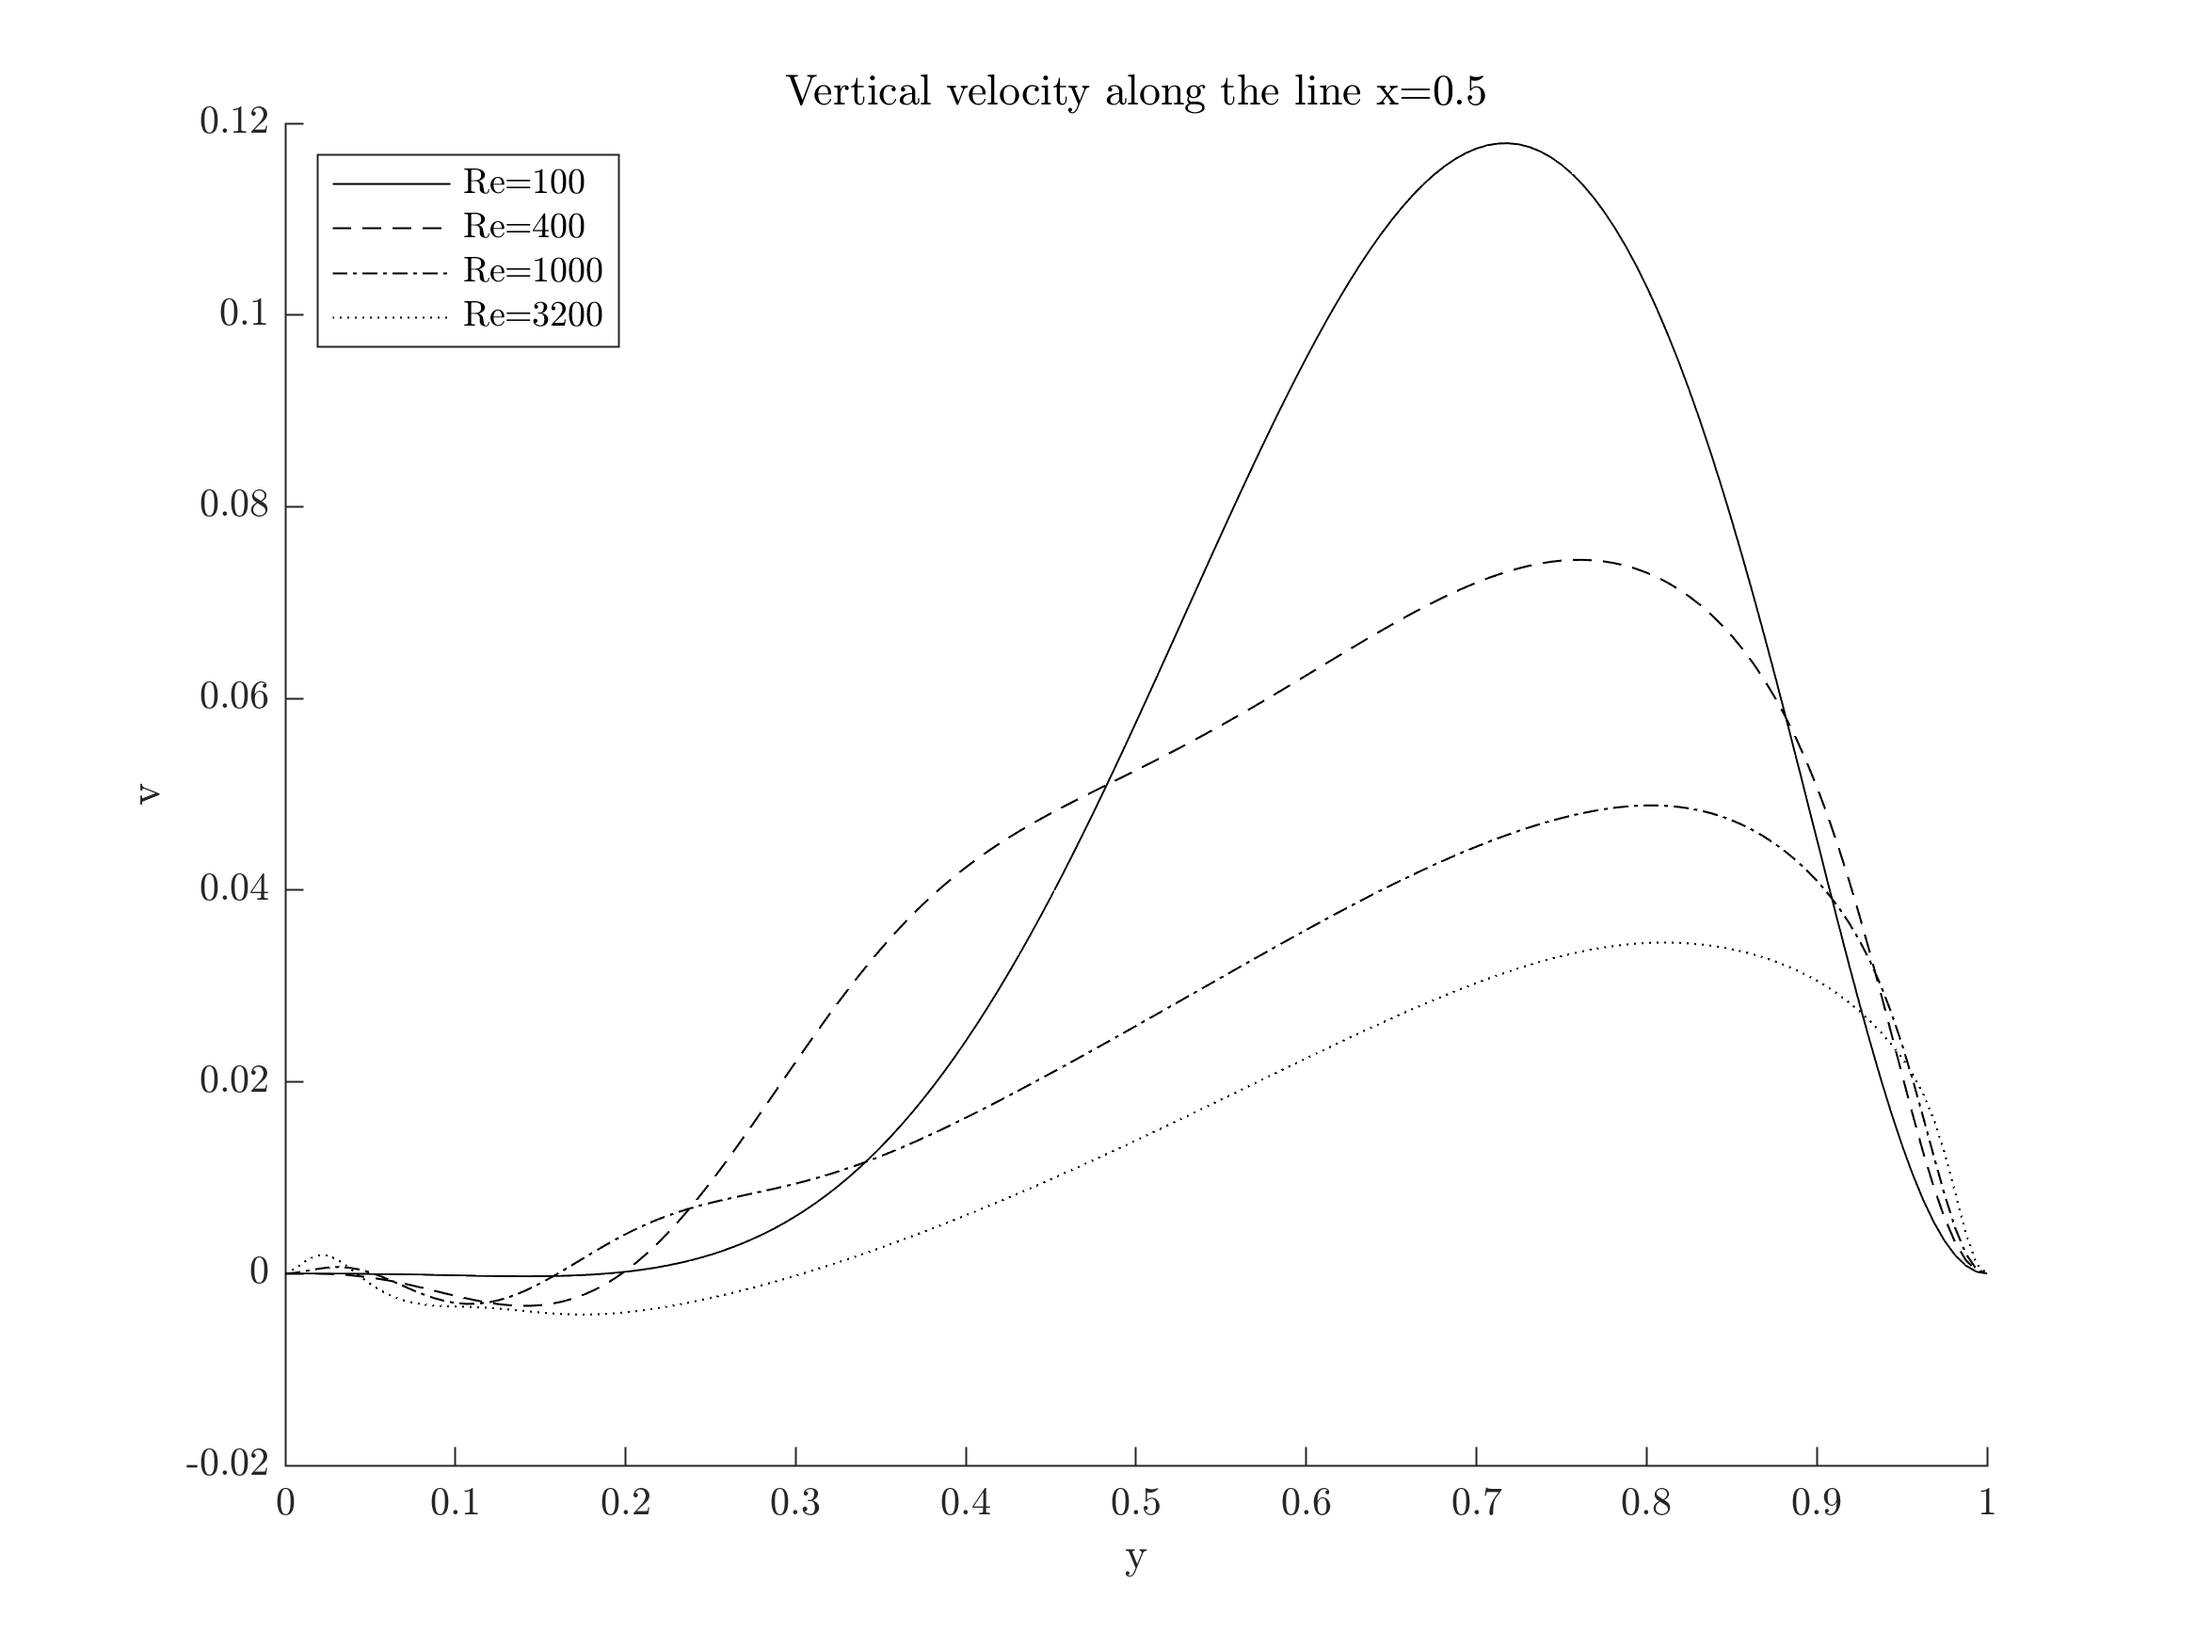
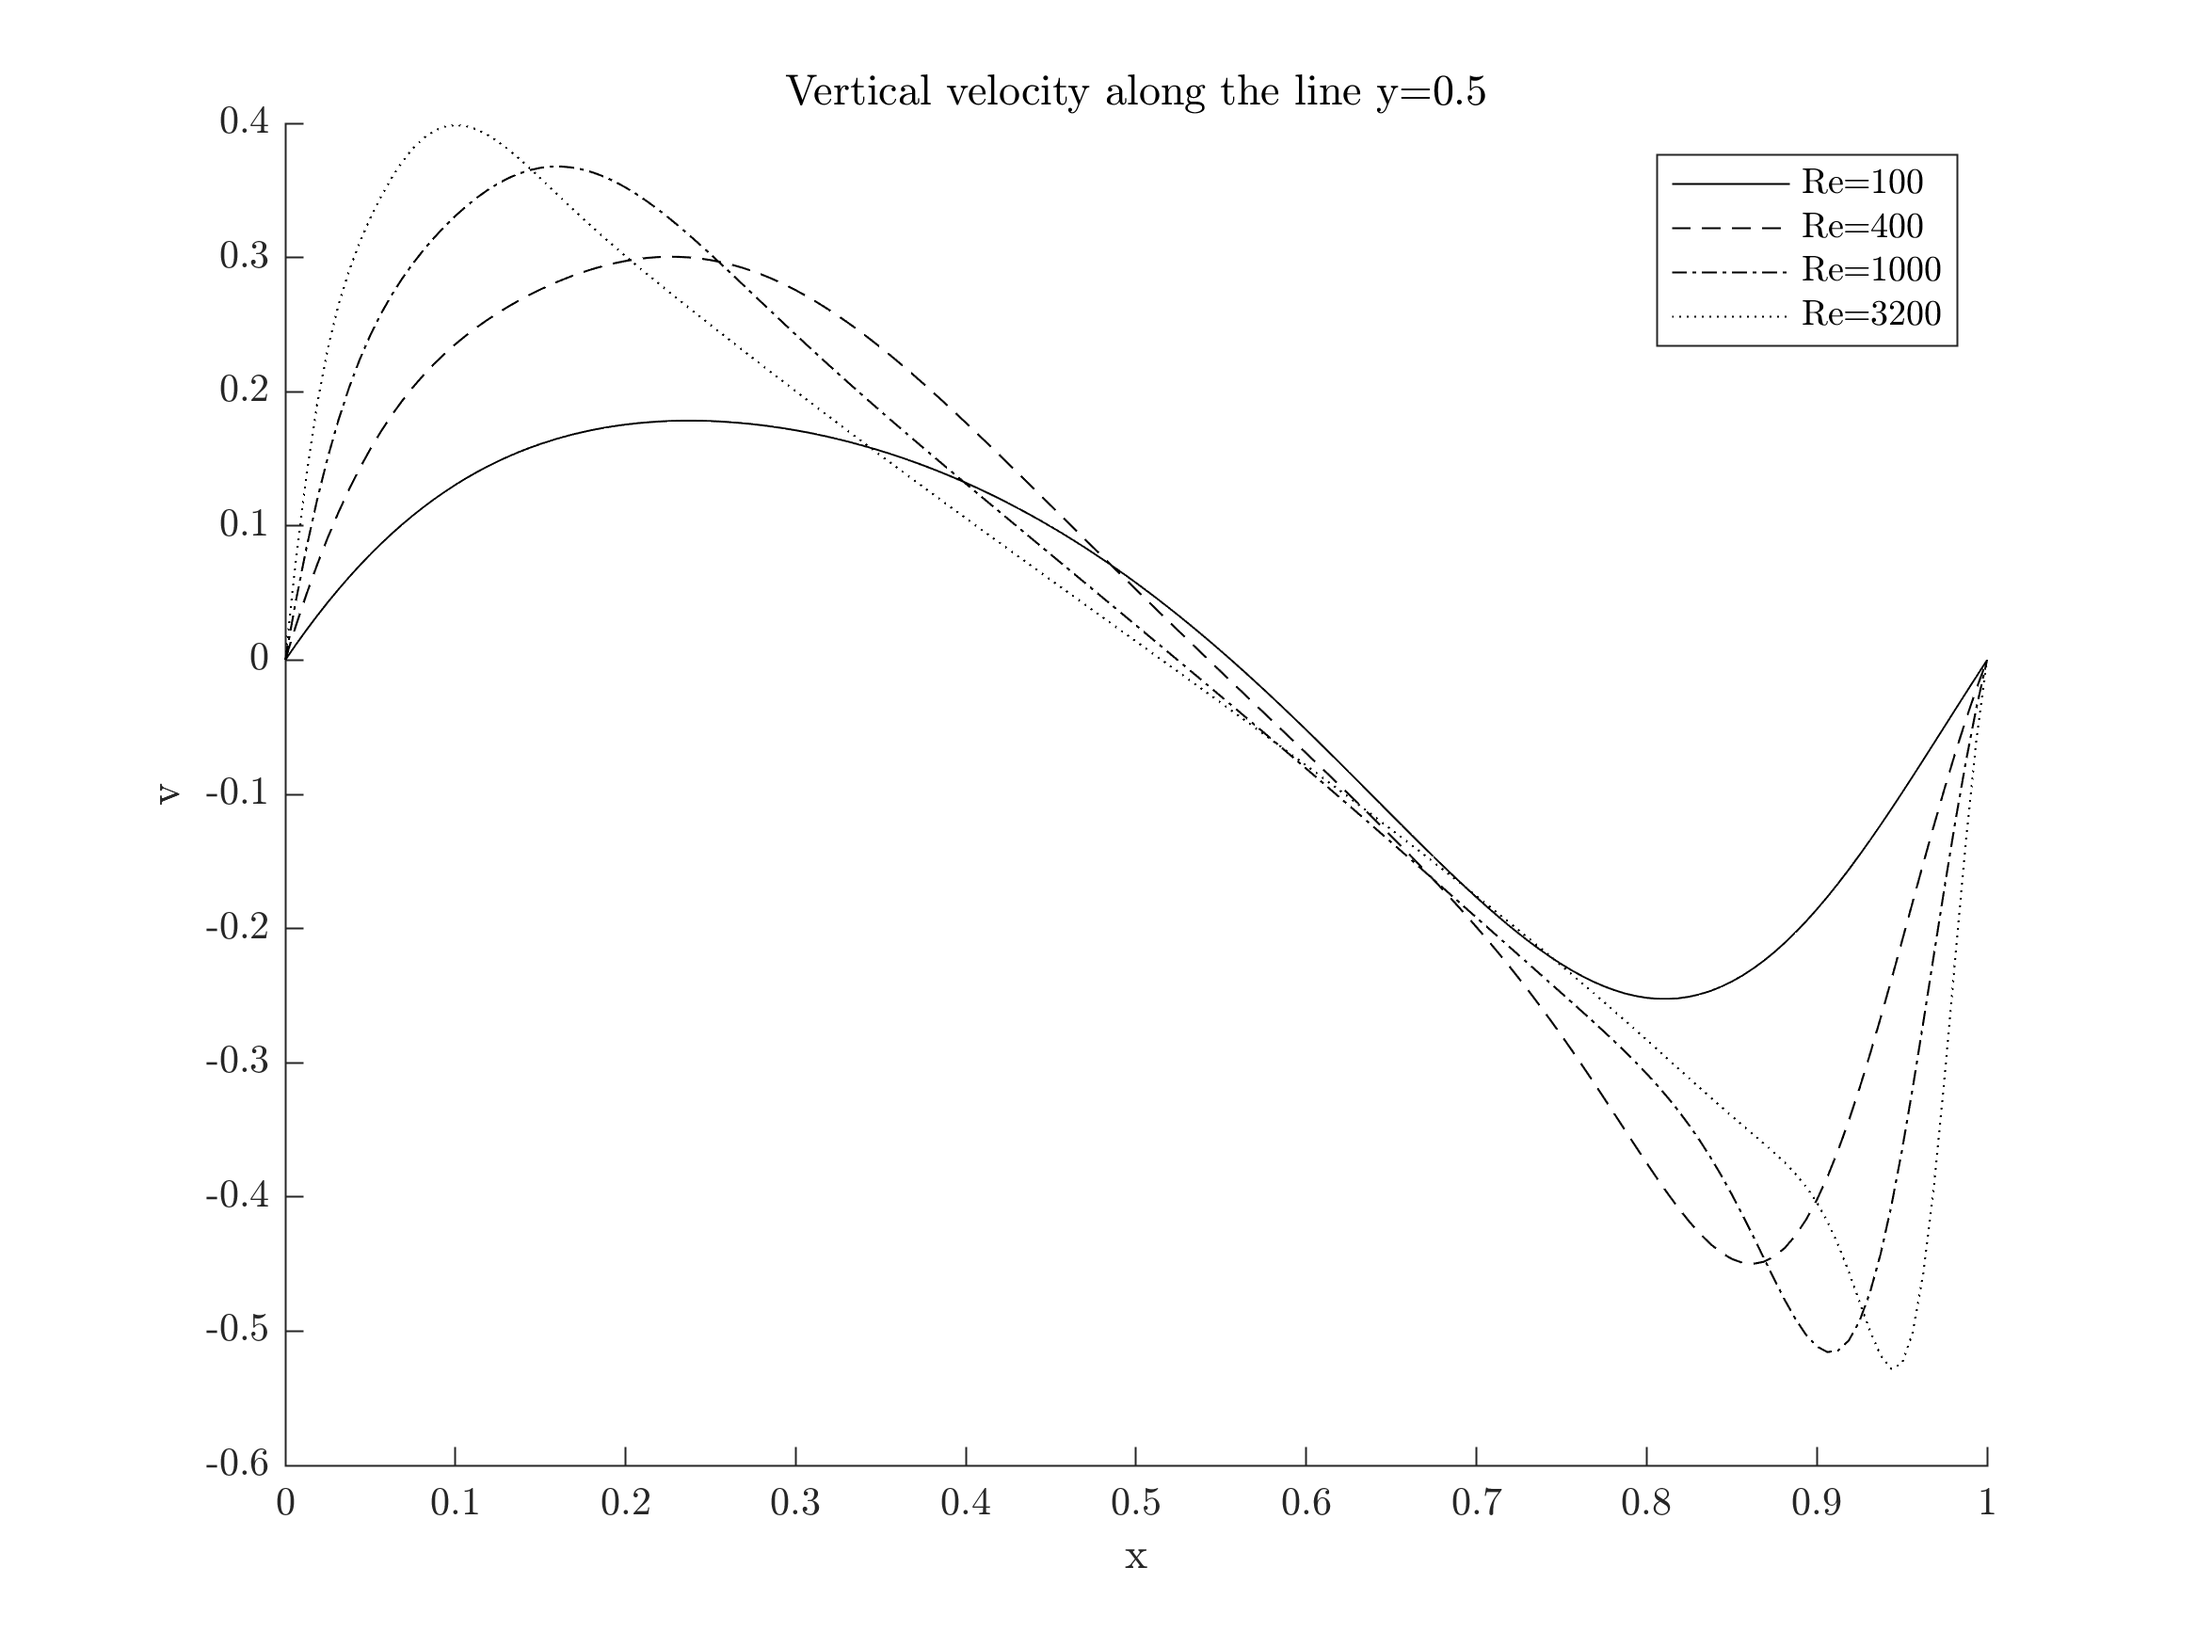
Plotting scripts upgrade

diff --git a/plot/multi_csv2contour.m b/plot/multi_csv2contour.m
@@ -71,27 +71,27 @@ for ii = 1:length(filenames)
     %% PLOT VELOCITY SLICES
     figure(length(filenames)+1)
     hold on
-    idx = find(Y == 0.5);
-    plot(X(idx),velU(idx),LineStyleOrder{ii});
+    idx = find(X == 0.5);
+    plot(Y(idx),velU(idx),LineStyleOrder{ii});
     
     figure(length(filenames)+2)
     hold on
-    idx = find(X == 0.5);
-    plot(Y(idx),velV(idx),LineStyleOrder{ii});
+    idx = find(Y == 0.5);
+    plot(X(idx),velV(idx),LineStyleOrder{ii});
 end
 
 figure(length(filenames)+1)
-title('Horizontal velocity along the line y=0.5','interpreter','latex');
-xlabel('x','interpreter','latex')
+title('Horizontal velocity along the line x=0.5','interpreter','latex');
+xlabel('y','interpreter','latex')
 ylabel('u','interpreter','latex')
 set(gca,'TickLabelInterpreter','latex')
-legend('Re=100','Re=400','Re=1000','Re=3200','interpreter','latex')
+legend('Re=100','Re=400','Re=1000','Re=3200','interpreter','latex','location','northwest')
 print(gcf,'Uvel_x0p5.png','-dpng','-r300');
 
 figure(length(filenames)+2)
-title('Vertical velocity along the line x=0.5','interpreter','latex');
-xlabel('y','interpreter','latex')
+title('Vertical velocity along the line y=0.5','interpreter','latex');
+xlabel('x','interpreter','latex')
 ylabel('v','interpreter','latex')
 set(gca,'TickLabelInterpreter','latex')
-legend('Re=100','Re=400','Re=1000','Re=3200','interpreter','latex','location','northwest')
+legend('Re=100','Re=400','Re=1000','Re=3200','interpreter','latex')
 print(gcf,'Vvel_y0p5.png','-dpng','-r300');

diff --git a/plot/csv2contour.m b/plot/csv2contour.m
@@ -2,7 +2,7 @@ clear
 clc
 close all
 
-filename = '../results/LDCoutput_Lx_1_Ly_1_Nx_161_Ny_161_T_100_Re_100.csv';
+filename = '../results/LDCoutput_Lx_1_Ly_2_Nx_161_Ny_161_T_100_Re_100.csv';
 Nx = 161;
 Ny = 161;
 
@@ -68,14 +68,14 @@ set(gca,'TickLabelInterpreter','latex')
 xlabel('x','interpreter','latex')
 ylabel('y','interpreter','latex')
 clabel(C1,h1,-.10:.02:-.02,'interpreter','latex')
-print(gcf,'Stream_Re100.png','-dpng','-r300');
+%print(gcf,'Stream_Ly2_Re100.png','-dpng','-r300');
 
 figure(3)
 [C2,h2] = contour(X,Y,V,linspace(-5,5,11),'LineColor','k');
-clabel(C2,h2,[-4:2:4],'labelspacing', 5000,'interpreter','latex');
+t = clabel(C2,h2,'manual','interpreter','latex');
 title('Vorticity Contour - Re = 100','interpreter','latex')
 set(gca,'TickLabelInterpreter','latex')
 xlabel('x','interpreter','latex')
 ylabel('y','interpreter','latex')
-print(gcf,'Vort_Re100.png','-dpng','-r300');
+%print(gcf,'Vort_Ly2_Re100.png','-dpng','-r300');
 
